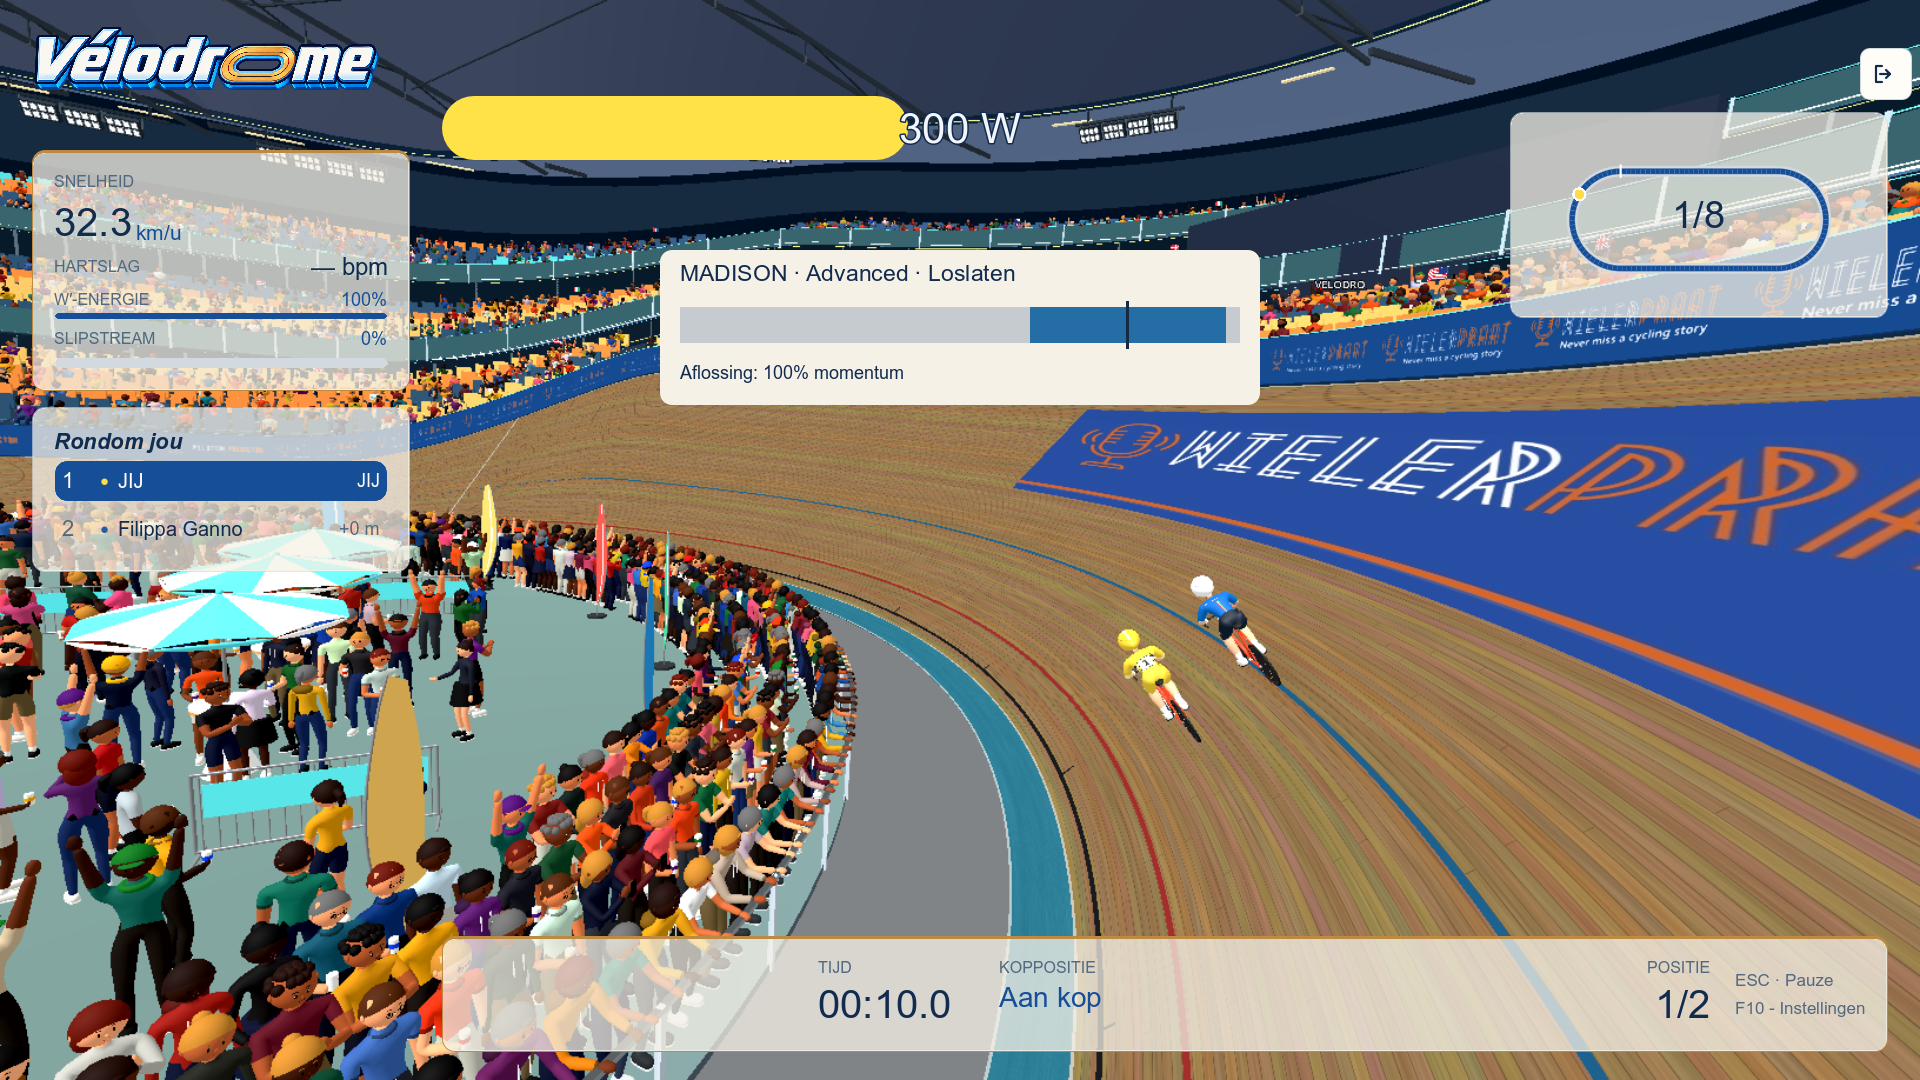
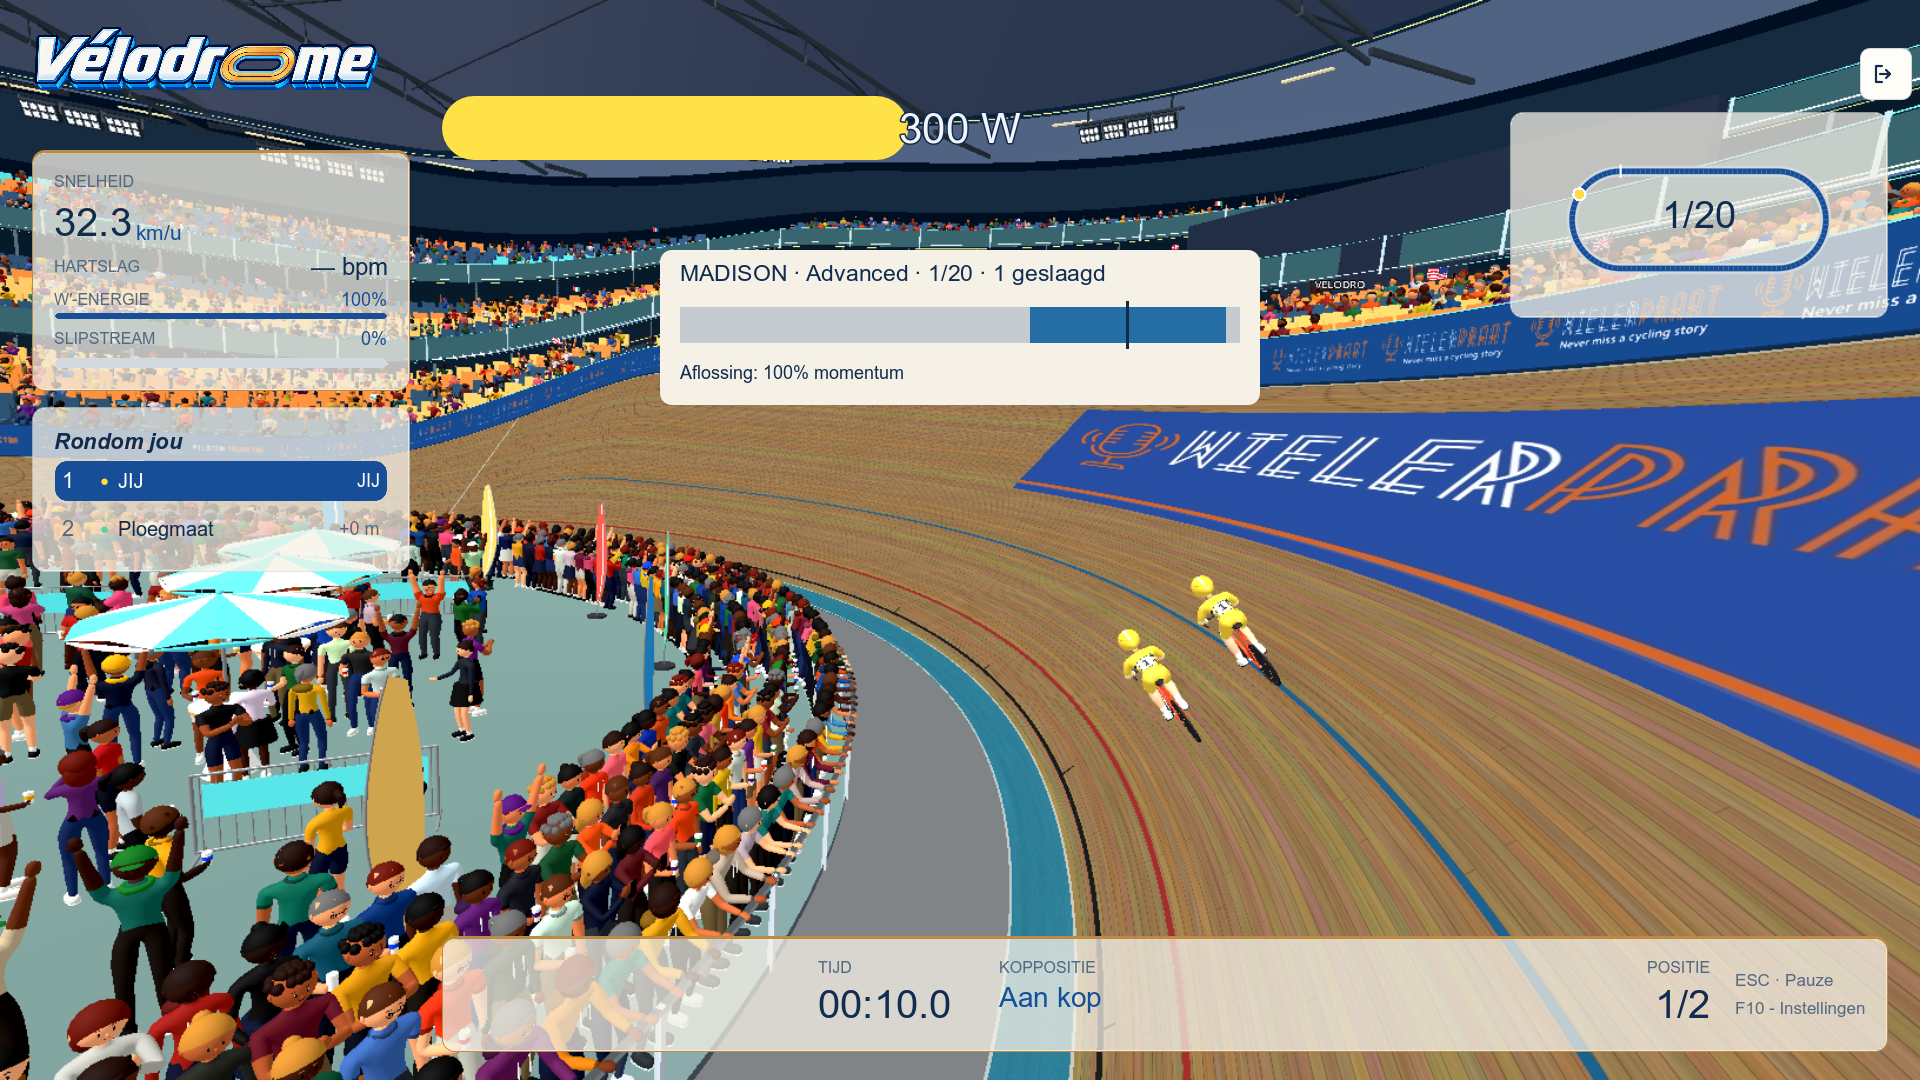
Match Madison teammate kit and unlock Advanced through scored training

diff --git a/game/docs/README_madison.md b/game/docs/README_madison.md
@@ -1,8 +1,22 @@
 # Madison-aflossingstraining
 
 In **Ploegkoers** kan je met twee renners de aflossing oefenen. Kies Easy of
-Advanced en het aantal oefenronden. Dit is de aflossingstraining; ploegpunten,
+Advanced en een sessie van **10 of 20 aflossingspogingen**. Dit is de aflossingstraining; ploegpunten,
 ploegklassement en een volledig Madison-peloton zijn nog niet geïmplementeerd.
+
+Advanced blijft grijs totdat een volledige Easy-sessie minstens 70% geslaagde
+pogingen heeft: **7/10 of 14/20**. De vrijgave blijft bewaard in
+`user://config/madison_progress.cfg`. Een geldige greep gevolgd door release met
+positieve momentumoverdracht telt als geslaagd. Elke naderingskans telt eenmaal:
+een gemist venster of verloren contact telt als mislukking; meerdere ongeldige
+knopdrukken binnen dezelfde kans voegen geen extra pogingen toe. Stoppen of
+herstarten begint een nieuwe reeks. Na 10/20 beoordeelde kansen en de laatste
+scheidingsfase eindigt de sessie automatisch en toont het resultaat de score.
+
+De ploegmaat draagt dezelfde uitrusting als de speler: standaardkleuren,
+skinsuit/landentenue, helm, vizier en standaardopdrukken. Zijn eigen lichaamsbouw
+en rijprofiel blijven behouden. Outfitwissels in de instellingen gelden meteen
+voor beide renners en blijven ook bij een nieuwe start gelijk.
 
 ## Bediening
 
@@ -88,6 +102,8 @@ Met Godot 4.7.2, na het importeren van de bestaande GLB/textuur-assets:
 ```text
 Godot --headless --path game --script res://tests/test_madison.gd
 Godot --headless --path game --script res://tests/test_madison_integration.gd
+Godot --headless --path game --script res://tests/test_madison_progress.gd
+Godot --headless --path game --script res://tests/test_madison_kit.gd
 Godot --headless --path game --script res://tests/test_menu.gd
 Godot --headless --path game --script res://tests/test_hud.gd
 Godot --headless --path game --script res://tests/test_bridge_protocol.gd
